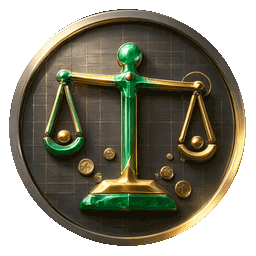
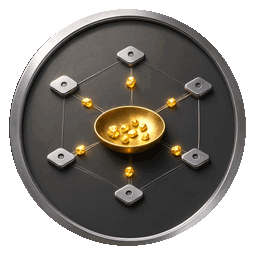
feat(release): TT-plus 1.0.1 — usage_source wiring, black Z & prospector rename, safe packaging
- Forward usage_source in toSessionBrowserRow per the dense wire contract and
  declare it in sessions-api.ts; the Qoder credit-estimate ~ badge now renders
  (53 estimate rows verified on the installed copy).
- zhipu-sage v11 (black Z), token-arbitrageur v10 renamed tu jin ke with
  six-locale copy; toast notifications now show real badge artwork.
- Rebuild the 1.0.1 installer after the EmbeddedServer nesting incident: the
  runbook now removes publish/EmbeddedServer before copying (the first 1.0.1
  package silently shipped the old 1.0.0 payload); verify-windows-package
  gates the ISCC step.
- Ledgers flipped to 1.0.1 released: installer 84,455,472 bytes,
  SHA-256 8EB43E3C5CD46D95FCA54F032A63EFC6586017F332CB8C20BA208C7E435DE829.

diff --git a/dashboard/src/hooks/use-achievements.test.js b/dashboard/src/hooks/use-achievements.test.js
@@ -1,0 +1,77 @@
+import { beforeEach, describe, expect, it, vi } from "vitest";
+import { BADGE_BY_ID } from "../ui/achievements/badge-catalog.js";
+import { TITLES_REGISTRY } from "../ui/achievements/title-registry.js";
+import { getLocalAchievements } from "../lib/api";
+import { triggerAchievementNotification } from "../ui/achievements/SteamAchievementToast.jsx";
+import { pollAchievements } from "./use-achievements.js";
+
+vi.mock("../lib/api", () => ({ getLocalAchievements: vi.fn() }));
+vi.mock("../ui/achievements/SteamAchievementToast.jsx", () => ({
+  triggerAchievementNotification: vi.fn(),
+}));
+vi.mock("../lib/copy", () => ({ copy: (key) => key }));
+
+const BADGE_KEY = "tokentracker:achievement_tiers";
+const TITLE_KEY = "tokentracker:title_resonance_tiers";
+
+describe("achievement notification artwork", () => {
+  beforeEach(() => {
+    localStorage.clear();
+    vi.clearAllMocks();
+  });
+
+  it("adds catalog artwork to an unlock payload", async () => {
+    localStorage.setItem(BADGE_KEY, JSON.stringify({ kill_line: 0 }));
+    getLocalAchievements.mockResolvedValue({ achievements: [{ id: "kill_line", tier: 1 }] });
+
+    await pollAchievements();
+
+    expect(triggerAchievementNotification).toHaveBeenCalledWith(expect.objectContaining({
+      badge: expect.objectContaining({ art: BADGE_BY_ID.get("kill_line").art }),
+    }));
+  });
+
+  it("uses the title crest for a newly unlocked title", async () => {
+    localStorage.setItem(BADGE_KEY, JSON.stringify({ token_arbitrageur: 1, frugal_architect: 2 }));
+    localStorage.setItem(TITLE_KEY, JSON.stringify({ frugal_archmage: { unlocked: false, tier: 0 } }));
+    getLocalAchievements.mockResolvedValue({
+      achievements: [{ id: "token_arbitrageur", tier: 1 }, { id: "frugal_architect", tier: 2 }],
+    });
+
+    await pollAchievements();
+
+    const title = TITLES_REGISTRY.find((item) => item.id === "frugal_archmage");
+    expect(triggerAchievementNotification).toHaveBeenCalledWith(expect.objectContaining({
+      badge: { id: title.id, art: title.art },
+      isTierUp: false,
+    }));
+  });
+
+  it("uses the same title crest for a resonance tier-up", async () => {
+    localStorage.setItem(BADGE_KEY, JSON.stringify({ token_arbitrageur: 2, frugal_architect: 2 }));
+    localStorage.setItem(TITLE_KEY, JSON.stringify({ frugal_archmage: { unlocked: true, tier: 1 } }));
+    getLocalAchievements.mockResolvedValue({
+      achievements: [{ id: "token_arbitrageur", tier: 2 }, { id: "frugal_architect", tier: 2 }],
+    });
+
+    await pollAchievements();
+
+    const title = TITLES_REGISTRY.find((item) => item.id === "frugal_archmage");
+    expect(triggerAchievementNotification).toHaveBeenCalledWith(expect.objectContaining({
+      badge: { id: title.id, art: title.art },
+      isTierUp: true,
+      tier: 2,
+    }));
+  });
+
+  it("records the first snapshot without firing notifications", async () => {
+    getLocalAchievements.mockResolvedValue({
+      achievements: [{ id: "token_arbitrageur", tier: 2 }, { id: "frugal_architect", tier: 2 }],
+    });
+
+    await pollAchievements();
+
+    expect(triggerAchievementNotification).not.toHaveBeenCalled();
+    expect(JSON.parse(localStorage.getItem(TITLE_KEY)).frugal_archmage).toEqual({ unlocked: true, tier: 2 });
+  });
+});

diff --git a/dashboard/src/ui/dashboard/components/SessionDetailModal.jsx b/dashboard/src/ui/dashboard/components/SessionDetailModal.jsx
@@ -128,6 +128,11 @@ export function SessionDetailModal({ session, subagents = [], onClose }) {
   }, [onClose]);
 
   const hasSubagents = subagentTokens > 0 || subagentCost > 0;
+  const isCreditEstimate = session.usage_source === "qoder-credit-estimate";
+  const estimatePrefix = copy("sessions.estimate.prefix");
+  const usageBadge = isCreditEstimate
+    ? copy("sessions.badge.estimated")
+    : session.usage_is_incomplete ? copy("sessions.badge.partial_usage") : null;
   const combinedPartial = session.cost_is_partial || (hasSubagents && descendants.costIsPartial);
   // The headline numbers cover the whole thread; the breakdown below them only
   // appears when there is something to break down.
@@ -172,8 +177,8 @@ export function SessionDetailModal({ session, subagents = [], onClose }) {
         <div className="min-h-0 flex-1 overflow-y-auto overscroll-contain px-5 py-5">
           <section aria-label={copy("sessions.detail.consumption")}>
             <dl className="grid grid-cols-2 overflow-hidden rounded-lg border border-oai-gray-200 dark:border-oai-gray-800">
-              <Kpi label={copy("sessions.col.tokens")}>{formatTokens(ownTokens + subagentTokens)}</Kpi>
-              <Kpi label={copy("sessions.col.cost")} className="border-l">{combinedPartial ? "≥" : ""}{formatCost(ownCost + subagentCost)}</Kpi>
+              <Kpi label={copy("sessions.col.tokens")}>{isCreditEstimate ? estimatePrefix : ""}{formatTokens(ownTokens + subagentTokens)}</Kpi>
+              <Kpi label={copy("sessions.col.cost")} className="border-l">{combinedPartial ? "≥" : isCreditEstimate ? "≈" : ""}{formatCost(ownCost + subagentCost)}</Kpi>
               <Kpi label={copy("sessions.summary.speed")} className="border-t" title={hasSpeed ? copy("sessions.performance.samples", { count: performance.estimated_request_count }) : copy("sessions.detail.no_speed")}>
                 {hasSpeed ? <SessionPerformance performance={performance} /> : "—"}
               </Kpi>
@@ -199,7 +204,7 @@ export function SessionDetailModal({ session, subagents = [], onClose }) {
             <p className="mt-3 text-xs leading-5 text-oai-gray-500 dark:text-oai-gray-400">
               {copy("sessions.detail.cost_source")} · {costSourceLabel(session.cost_source)}
               {session.cost_is_partial ? <span className="text-amber-700 dark:text-amber-300"> · {copy("sessions.cost.partial_title")}</span> : null}
-              {session.usage_is_incomplete ? <span className="text-amber-700 dark:text-amber-300"> · {copy("sessions.badge.partial_usage")}</span> : null}
+              {usageBadge ? <span className="text-amber-700 dark:text-amber-300"> · {usageBadge}</span> : null}
             </p>
           </section>
 

diff --git a/dashboard/src/pages/SessionsPage.jsx b/dashboard/src/pages/SessionsPage.jsx
@@ -160,9 +160,13 @@ const SessionRow = React.memo(function SessionRow({
   const title = isSubagent
     ? (session.agent_nickname || session.agent_role || session.title || projectLabel)
     : (session.title || projectLabel);
-  const costBadge = session.usage_is_incomplete
-    ? copy("sessions.badge.partial_usage")
-    : session.cost_is_partial ? copy("sessions.badge.partial_cost") : null;
+  const isCreditEstimate = session.usage_source === "qoder-credit-estimate";
+  const estimatePrefix = copy("sessions.estimate.prefix");
+  const costBadge = isCreditEstimate
+    ? copy("sessions.badge.estimated")
+    : session.usage_is_incomplete
+      ? copy("sessions.badge.partial_usage")
+      : session.cost_is_partial ? copy("sessions.badge.partial_cost") : null;
   // WorkBuddy charges credits and writes the figure into its own log per
   // request, so a conversation can show what it cost in the unit that product
   // actually bills in — which a transcript-only reader cannot know.
@@ -282,14 +286,14 @@ const SessionRow = React.memo(function SessionRow({
             title={Number(session.subagent_total_tokens) ? copy("sessions.thread.tokens_summary", { own: formatTokens(session.own_total_tokens), subagents: formatTokens(session.subagent_total_tokens), combined: formatTokens(session.combined_total_tokens) }) : undefined}
             className="mt-1 text-sm tabular-nums text-oai-black dark:text-white md:mt-0"
           >
-            {formatTokens(session.total_tokens)}
+            {isCreditEstimate ? estimatePrefix : ""}{formatTokens(session.total_tokens)}
             {Number(session.subagent_total_tokens) ? <span className="mt-0.5 block text-xs text-oai-gray-500 dark:text-oai-gray-400">Σ {formatTokens(session.combined_total_tokens)}</span> : null}
           </dd>
         </div>
         <div className="sessions-row-value">
           <dt className="text-xs text-oai-gray-600 dark:text-oai-gray-300 md:sr-only">{copy("sessions.col.cost")}</dt>
-          <dd className="mt-1 text-sm tabular-nums text-oai-black dark:text-white md:mt-0" title={session.cost_is_partial ? copy("sessions.cost.partial_title") : undefined}>
-            {session.cost_is_partial ? "≥" : ""}{formatUsdCurrency(session.cost_usd, { currency, rate })}
+          <dd className="mt-1 text-sm tabular-nums text-oai-black dark:text-white md:mt-0" title={isCreditEstimate ? copy("sessions.badge.estimated") : session.cost_is_partial ? copy("sessions.cost.partial_title") : undefined}>
+            {session.cost_is_partial ? "≥" : isCreditEstimate ? "≈" : ""}{formatUsdCurrency(session.cost_usd, { currency, rate })}
           </dd>
         </div>
         <div className="sessions-row-value">

diff --git a/dashboard/src/hooks/use-achievements.js b/dashboard/src/hooks/use-achievements.js
@@ -2,9 +2,12 @@ import { useEffect, useMemo, useState } from "react";
 import { getLocalAchievements } from "../lib/api";
 import { getBrowserTimeZone, getBrowserTimeZoneOffsetMinutes } from "../lib/timezone";
 import { triggerAchievementNotification } from "../ui/achievements/SteamAchievementToast.jsx";
+import { BADGE_BY_ID } from "../ui/achievements/badge-catalog.js";
+import { TITLES_REGISTRY, getTitleResonance } from "../ui/achievements/title-registry.js";
 import { copy } from "../lib/copy";
 
 const TIERS_STORAGE_KEY = "tokentracker:achievement_tiers";
+const TITLE_RESONANCE_STORAGE_KEY = "tokentracker:title_resonance_tiers";
 const ACHIEVEMENTS_CACHE_KEY = "tokentracker:cached_achievements";
 
 function getCachedAchievements() {
@@ -47,7 +50,7 @@ export async function pollAchievements({ timeZone } = {}) {
           const nameKey = `achievements.badge.${b.id}.name`;
           const descKey = `achievements.badge.${b.id}.desc`;
           triggerAchievementNotification({
-            badge: b,
+            badge: { ...b, art: b.art || BADGE_BY_ID.get(b.id)?.art },
             tier: curTier,
             isTierUp: oldTier >= 1,
             name: copy(nameKey) || b.id,
@@ -56,6 +59,26 @@ export async function pollAchievements({ timeZone } = {}) {
         }
       }
     }
+    const previousTitles = JSON.parse(localStorage.getItem(TITLE_RESONANCE_STORAGE_KEY) || "null");
+    const badgeMap = new Map(achievements.map((badge) => [badge.id, { id: badge.id, tier: badge.tier || 0 }]));
+    const currentTitleTiers = {};
+    for (const title of TITLES_REGISTRY) {
+      const resonance = getTitleResonance(title, badgeMap);
+      const unlocked = Boolean(resonance.unlocked);
+      const tier = unlocked ? resonance.tier : 0;
+      currentTitleTiers[title.id] = { unlocked, tier };
+      const previous = previousTitles?.[title.id];
+      if (previousTitles && unlocked && (!previous?.unlocked || tier > (previous.tier || 0))) {
+        triggerAchievementNotification({
+          badge: { id: title.id, art: title.art },
+          tier: tier || 1,
+          isTierUp: Boolean(previous?.unlocked),
+          name: title.name,
+          desc: previous?.unlocked ? `共鸣提升至 ${resonance.label}` : title.desc,
+        });
+      }
+    }
+    localStorage.setItem(TITLE_RESONANCE_STORAGE_KEY, JSON.stringify(currentTitleTiers));
     localStorage.setItem(TIERS_STORAGE_KEY, JSON.stringify(currentTiers));
     localStorage.setItem(ACHIEVEMENTS_CACHE_KEY, JSON.stringify(achievements));
   } catch {

diff --git a/dashboard/src/ui/achievements/badge-catalog.js b/dashboard/src/ui/achievements/badge-catalog.js
@@ -125,7 +125,7 @@ export const BADGE_CATALOG = [
   { id: "terminal_purist", scope: "local", icon: Terminal, format: "days", art: "/achievements/terminal-purist.png?v=7" },
   { id: "refactor_titan", scope: "local", icon: Hammer, format: "count", art: "/achievements/refactor-titan.png?v=7" },
   // Wave-4 badges (2026-10-24)
-  { id: "zhipu_sage", scope: "local", icon: Atom, format: "tokens", art: "/achievements/zhipu-sage.png?v=10" },
+  { id: "zhipu_sage", scope: "local", icon: Atom, format: "tokens", art: "/achievements/zhipu-sage.png?v=11" },
   { id: "moonshot_voyager", scope: "local", icon: Eclipse, format: "tokens", art: "/achievements/moonshot-voyager.png?v=10" },
   { id: "minimax_abyss", scope: "local", icon: Waves, format: "tokens", art: "/achievements/minimax-abyss.png?v=11" },
   { id: "north_america_doubao", scope: "local", icon: Bot, format: "tokens", art: "/achievements/north-america-doubao.png?v=7" },
@@ -133,7 +133,7 @@ export const BADGE_CATALOG = [
   { id: "qwen_dynasty", scope: "local", icon: Landmark, format: "tokens", art: "/achievements/qwen-dynasty.png?v=10" },
   { id: "flash_immortal", scope: "local", icon: Zap, format: "tokens", art: "/achievements/flash-immortal.png?v=9" },
   { id: "seedance_master", scope: "local", icon: Music4, format: "tokens", art: "/achievements/seedance-master.png?v=10" },
-  { id: "token_arbitrageur", scope: "local", icon: CircleDollarSign, format: "count", art: "/achievements/token-arbitrageur.png?v=9" },
+  { id: "token_arbitrageur", scope: "local", icon: CircleDollarSign, format: "count", art: "/achievements/token-arbitrageur.png?v=10" },
   // Wave-5 badges (2026-10-25)
   { id: "meituan_longcat", scope: "local", icon: Cat, format: "tokens", art: "/achievements/meituan-longcat.png?v=6" },
   { id: "jd_joy_brother", scope: "local", icon: Dog, format: "tokens", art: "/achievements/jd-joy-brother.png?v=6" },

diff --git a/dashboard/src/ui/achievements/title-registry.js b/dashboard/src/ui/achievements/title-registry.js
@@ -34,15 +34,15 @@ const TITLES_UNSORTED = [
     difficulty: 3.2,
     name: "零元购",
     en: "Zero-Cost Cart",
-    desc: "羊毛宗师与白嫖之光双修，把每一次调用都过成零元购。",
+    desc: "淘金客与白嫖之光双修，把每一次调用都过成零元购。",
     tag: "质朴古铜",
     art: "/achievements/titles/title-frugal-archmage.png?v=5",
     requiredBadges: [
-      { id: "token_arbitrageur", name: "羊毛宗师", tier: 1, art: "/achievements/token-arbitrageur.png?v=9" },
+      { id: "token_arbitrageur", name: "淘金客", tier: 1, art: "/achievements/token-arbitrageur.png?v=10" },
       { id: "frugal_architect", name: "白嫖之光", tier: 2, art: "/achievements/frugal-architect.png?v=7" },
     ],
     check: (badgeMap) => (badgeMap.get("token_arbitrageur")?.tier || 0) >= 1 && (badgeMap.get("frugal_architect")?.tier || 0) >= 2,
-    reqText: "羊毛宗师(青铜) + 白嫖之光(白银)",
+    reqText: "淘金客(青铜) + 白嫖之光(白银)",
     theme: {
       text: "text-amber-200",
       bgGradient: "from-stone-900/90 via-zinc-950 to-black",
@@ -364,7 +364,7 @@ const TITLES_UNSORTED = [
     art: "/achievements/titles/title-cn-quad-masters.png?v=5",
     requiredBadges: [
       { id: "wishing_well", name: "许愿池(DeepSeek)", tier: 1, art: "/achievements/wishing-well.png?v=16" },
-      { id: "zhipu_sage", name: "智谱乾坤", tier: 1, art: "/achievements/zhipu-sage.png?v=10" },
+      { id: "zhipu_sage", name: "智谱乾坤", tier: 1, art: "/achievements/zhipu-sage.png?v=11" },
       { id: "moonshot_voyager", name: "暗面行者", tier: 1, art: "/achievements/moonshot-voyager.png?v=10" },
       { id: "minimax_abyss", name: "海螺巨兽", tier: 1, art: "/achievements/minimax-abyss.png?v=11" },
     ],

diff --git a/dashboard/src/pages/SessionsPage.test.jsx b/dashboard/src/pages/SessionsPage.test.jsx
@@ -247,6 +247,33 @@ describe("SessionsPage", () => {
     expect(screen.getByText("1.2K credits")).toBeInTheDocument();
     expect(screen.getByText(/transcript is still on this machine/)).toBeInTheDocument();
   });
+  it("labels Qoder credit-estimated tokens and cost as estimates", async () => {
+    const row = makeThreadSession({
+      session_hash: "qoder-estimate-row",
+      title: "Qoder credit estimate",
+      source: "qoder",
+      usage_source: "qoder-credit-estimate",
+      usage_is_incomplete: true,
+      total_tokens: 10_000,
+      own_total_tokens: 10_000,
+      combined_total_tokens: 10_000,
+      cost_usd: 1.23,
+    });
+    getSessions.mockResolvedValue({ ...response, sessions: [row], session_count: 1, returned_count: 1 });
+    render(<SessionsPage />);
+
+    expect(await screen.findByText("Qoder credit estimate")).toBeInTheDocument();
+    expect(document.body.textContent).toContain(copy("sessions.badge.estimated"));
+    expect(screen.queryByText(copy("sessions.badge.partial_usage"))).toBeNull();
+    expect(screen.getByText(/^≈10K$/)).toBeInTheDocument();
+    expect(screen.getByText(/^≈\$1\.23/)).toBeInTheDocument();
+
+    fireEvent.click(screen.getByRole("button", { name: "View statistics for Qoder credit estimate" }));
+    expect(within(screen.getByRole("dialog")).getByText(
+      (_, element) => element?.textContent === ` · ${copy("sessions.badge.estimated")}`,
+    )).toBeInTheDocument();
+  });
+
   beforeEach(() => {
     getSessions.mockReset();
     getSessions.mockResolvedValue(response);

diff --git a/dashboard/src/lib/sessions-api.ts b/dashboard/src/lib/sessions-api.ts
@@ -111,6 +111,7 @@ export interface SessionRow {
   combined_cost_usd: number;
   cost_usd: number;
   cost_source: "provider_reported" | "model_pricing" | "mixed" | null;
+  usage_source: "token-monitor-archive" | "qoder-credit-estimate" | "antigravity-conversation-db" | null;
   usage_precision: "reported" | "reported_incomplete" | "mixed" | "unavailable" | null;
   usage_is_incomplete: boolean;
   cost_is_partial: boolean;

diff --git a/src/lib/session-analytics.js b/src/lib/session-analytics.js
@@ -4462,6 +4462,7 @@ function toSessionBrowserRow(row) {
     combined_cost_usd: finite(row.combined_cost_usd || row.cost_usd),
     cost_usd: finite(row.cost_usd),
     cost_source: row.cost_source || null,
+    usage_source: row.usage_source || null,
     usage_precision: row.usage_precision || null,
     usage_is_incomplete: Boolean(row.usage_is_incomplete),
     cost_is_partial: Boolean(row.cost_is_partial),

diff --git a/dashboard/public/achievements/README.md b/dashboard/public/achievements/README.md
@@ -72,7 +72,7 @@ eal-money, session-marathon, sprinter, wordsmith. Built via scripts/art/rebuild-
 - **Wave 3 Coins (11 coins)**: closed-source-loyalist, rugal-architect, offgrid-sovereign, megacontext-voyager, cache-miser, code-cannon, uzzer-beater, zen-balancer, swarm-commander, 	erminal-purist, 
 efactor-titan. Source originals are stored in scripts/art/source-badges/ and compiled via scripts/art/build-wave3-house-coins.py.
 - **Remodeled 3D Relief Coins (3 coins)**: deep-thinker, claude-survivor, wishing-well were remodeled from flat 2D silhouettes into authentic 3D sculpted metallic relief coins (scripts/art/source-badges/deep-thinker.jpg, claude-survivor.jpg, wishing-well.jpg) via scripts/art/rebuild-badge-rims.py.
-- **Wave 4 Coins (9 coins)**: zhipu-sage, moonshot-voyager, minimax-abyss, north-america-doubao, hyperspeed-grok, qwen-dynasty, flash-immortal, seedance-master, token-arbitrageur. Compiled via scripts/art/build-wave4-assets.py.
+- **Wave 4 Coins (9 coins)**: zhipu-sage, moonshot-voyager, minimax-abyss, north-america-doubao, hyperspeed-grok, qwen-dynasty, flash-immortal, seedance-master, token-arbitrageur. Compiled via scripts/art/build-wave4-assets.py. Zhipu-sage now uses a black enamel Z (art v11, `zhipu-sage-v11-source.png`); token-arbitrageur is now 淘金客 / Compute Prospector with platform nodes feeding a gold pan (art v10, `token-arbitrageur-v10-source.png`).
 - **Wave 5 Coins (4 coins)**: meituan-longcat, jd-joy-brother, hunyuan-master, stepfun-voyager. Compiled via scripts/art/mint-wave4-batch2.py.
 - **Wave 6 Coins (2 new + 2 custom)**: dragon-heir, kill-line (new); sprinter and wishing-well keep the owner-approved custom faces. Kill-line now uses the owner's chosen intact DeepSeek whale above a V-shaped blade gouge (`kill-line-v2-source.png`, art v4). Coin edges match the standard disc; the owner reviewed subject-shrink samples for sprinter, wishing-well and dragon-heir, rejected them, and kept the current faces.
 - **Synergy Title Crests (16 crests)**: dashboard/public/achievements/titles/title-*.png (for the 16 geek title resonances). Source originals are stored in scripts/art/source-titles/ and compiled with strict binary alpha.
